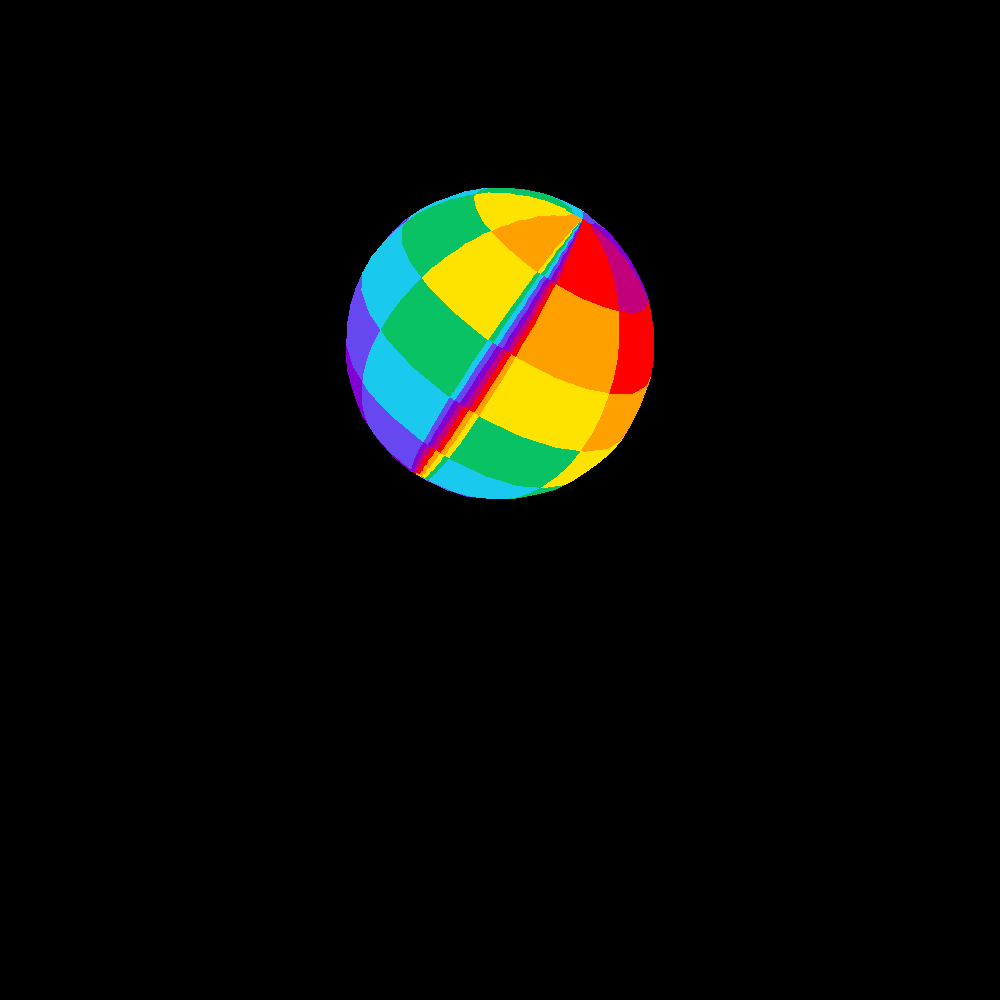
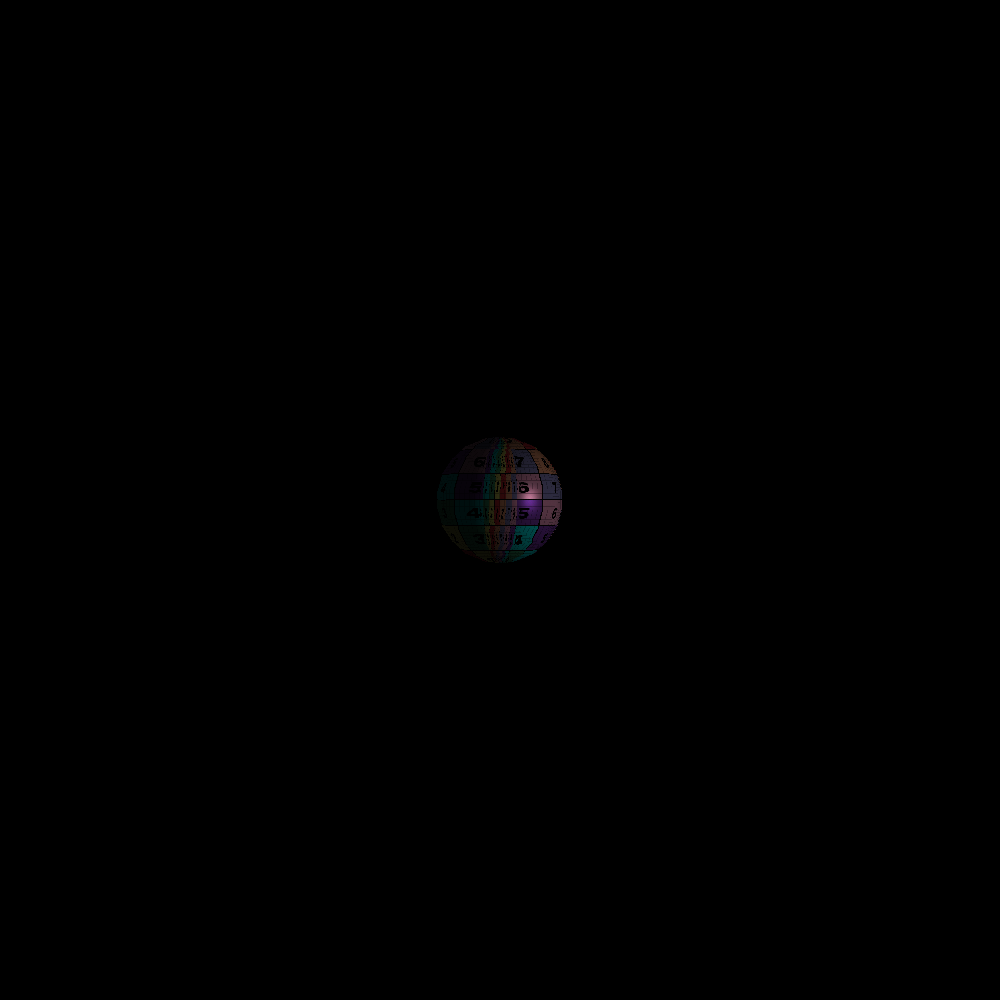
Textures and light

Changed region(s): [[0.341, 0.186, 0.651, 0.558]]

diff --git a/Zad1/DirectionalLight.cpp b/Zad1/DirectionalLight.cpp
@@ -15,70 +15,8 @@ DirectionalLight::DirectionalLight(Vector3 position, Vector3 ambient, Vector3 di
 	this->specularStrenght = specularStrenght;
 }
 
-void DirectionalLight::Calculate(Mesh& mesh)
-{
-	if (!mesh.colors.empty()) mesh.colors.clear();
-	for (int i = 0; i < mesh.vSize; ++i)
-	{
-		//vertices and normals
-		Vector4 normals = mesh.model * Vector4(mesh.normals[i], 0);
-		Vector4 vertices = mesh.model * Vector4(-mesh.vertices[i], 0);
-		Vector3 N = Vector3(normals.x, normals.y, normals.z);
-		Vector3 V = Vector3(vertices.x, vertices.y, vertices.z);
-		V = Vector3::Normalize(V);
-		N = Vector3::Normalize(N);
 
-		//light position
-		Vector4 pos = Vector4(position, 0);
-		Vector3 lightPosition = Vector3(pos.x, pos.y, pos.z);
-		lightPosition = lightPosition.Normalize();
-
-		//difffuse
-		float diffuse = Vector3::Dot(lightPosition, N);
-		if (diffuse < 0) diffuse = 0;
-		Vector3 dif = diffuseColor * diffuse;
-
-		//specular
-		Vector3 R = lightPosition - (N * 2 * (Vector3::Dot(lightPosition, N)));
-		R = Vector3::Normalize(R);
-		float specular = Vector3::Dot(R , V);
-		Vector3 spec;
-
-		if (specular > 0) 
-		{
-			specular = pow(specular, shininess);
-			spec = specularColor * specular * specularStrenght ;
-		}
-
-		mesh.colors.push_back( dif + spec + ambientColor );
-		if (mesh.colors[i].x > 255) mesh.colors[i].x = 255;
-		if (mesh.colors[i].y > 255) mesh.colors[i].y = 255;
-		if (mesh.colors[i].z > 255) mesh.colors[i].z = 255;
-
-	}
-
-	int i = 0;
-	for (auto& t : mesh.triangles)
-	{
-		t.colorV1 += mesh.colors[(int)mesh.indices[i].y];
-		t.colorV2 += mesh.colors[(int)mesh.indices[i].x];
-		t.colorV3 += mesh.colors[(int)mesh.indices[i].z];
-		if (t.colorV1.x > 255) t.colorV1.x = 255;
-		if (t.colorV1.y > 255) t.colorV1.y = 255;
-		if (t.colorV1.z > 255) t.colorV1.z = 255;
-
-		if (t.colorV2.x > 255) t.colorV2.x = 255;
-		if (t.colorV2.y > 255) t.colorV2.y = 255;
-		if (t.colorV2.z > 255) t.colorV2.z = 255;
-
-		if (t.colorV3.x > 255) t.colorV3.x = 255;
-		if (t.colorV3.y > 255) t.colorV3.y = 255;
-		if (t.colorV3.z > 255) t.colorV3.z = 255;
-		i++;
-	}
-}
-
-Vector3 DirectionalLight::Calculate(Vector3 V, Vector3 N)
+Vector3 DirectionalLight::Calculate(Vector3 V, Vector3 N, Vector3 texture)
 {
 	V = Vector3::Normalize(V);
 	N = Vector3::Normalize(N);
@@ -87,7 +25,7 @@ Vector3 DirectionalLight::Calculate(Vector3 V, Vector3 N)
 
 	float diffuse = Vector3::Dot(position, N);
 	if (diffuse < 0) diffuse = 0;
-	Vector3 dif = diffuseColor * diffuse;
+	Vector3 dif = diffuseColor * diffuse * texture * 0.00392f;
 
 	Vector3 R = position - (N * 2 * (Vector3::Dot(position, N)));
 	R = Vector3::Normalize(R);
@@ -96,9 +34,11 @@ Vector3 DirectionalLight::Calculate(Vector3 V, Vector3 N)
 
 	if (specular > 0)
 	{
-		specular = pow(specular, 99);
-		spec = specularColor * specular * 0.9;
+		specular = pow(specular, shininess);
+		spec = specularColor * specular * specularStrenght * texture * 0.00392f;
 	}
 
-	return spec + dif + ambientColor;
+	//ambientColor = texture;
+
+	return spec + dif + ambientColor * texture * 0.00392f;
 }

diff --git a/Zad1/Triangle.cpp b/Zad1/Triangle.cpp
@@ -18,6 +18,7 @@ Triangle::Triangle(Vector3 v1, Vector3 v2, Vector3 v3, Vector3 n1, Vector3 n2, V
 
 void Triangle::SetView(Matrix4 obj2view, Matrix4 camera, Matrix4 m) {
 
+	model = m;
 	Vector4 p1 = obj2view * camera * m * Vector4(v1, 1);
 	Vector4 p2 = obj2view * camera * m * Vector4(v2, 1);
 	Vector4 p3 = obj2view * camera * m * Vector4(v3, 1);
@@ -54,33 +55,19 @@ void Triangle::Draw(int& i, int& j, ColorBuffer& buffer, Texture& texture)
 		L2 = (dy31 * (j - v3.x) + dx13 * (i - v3.y)) / (dy31 * dx23 + dx13 * dy23);
 		L3 = 1 - L2 - L1;
 
-		Vector3 V = -dv1 * L1 + -dv2 * L2 + -dv3 * L3;
+		Vector3 V = dv1 * L1 + dv2 * L2 + dv3 * L3;
 		Vector3 N = n1 * L1 + n2 * L2 + n3 * L3;
 
-		Matrix4 model;
-		model = Matrix4::Translate(model, Vector3(0, -1, 7));
+		//Matrix4 model;
+		//model = Matrix4::Translate(model, Vector3(0, -1, 7));
 
 		Vector4 vertices = model * Vector4(V, 1);
 
 		V = Vector3(vertices.x, vertices.y, vertices.z);
 
-		DirectionalLight pl(Vector3(-0.4f, 0.0, -0.7f), Vector3(50, 0, 0), Vector3(210, 0, 0), Vector3(255, 255, 255));
-		//PointLight pl(Vector3(2, 0, -5), Vector3(0, 15, 0), Vector3(0, 220, 0), Vector3(255, 255, 255));
+		//DirectionalLight pl(Vector3(0.7f, 0.0, 0.2f), Vector3(10, 10, 10), Vector3(70, 70, 70), Vector3(200, 200, 200));
+		PointLight pl(Vector3(6, 0, 3), Vector3(15, 15, 15), Vector3(70, 70, 70), Vector3(255, 255, 255));
 
-		colorV1 = Vector3(0, 0, 0);
-		colorV2 = Vector3(0, 0, 0);
-		colorV3 = Vector3(0, 0, 0);
-
-		colorV1 = pl.Calculate(V, N);
-		colorV2 = pl.Calculate(V, N);
-		colorV3 = pl.Calculate(V, N);
-		//std::cout <<  t1.y << "\n";
-		
-		//colorV1 = texture.GetColor((texture.width - 1) * t1.x, (texture.height - 1) * t1.y);
-		//colorV2 = texture.GetColor((texture.width - 1) * t2.x, (texture.height - 1) * t2.y);
-		//colorV3 = texture.GetColor((texture.width - 1) * t3.x, (texture.height - 1) * t3.y);
-
-		
 
 		float v = t1.x * L1 + t2.x * L2 + t3.x * L3;
 		float u = t1.y * L1 + t2.y * L2 + t3.y * L3;
@@ -88,6 +75,10 @@ void Triangle::Draw(int& i, int& j, ColorBuffer& buffer, Texture& texture)
 		colorV1 = texture.GetColor((texture.width - 1) * v, (texture.height - 1) * u);
 		colorV2 = texture.GetColor((texture.width - 1) * v, (texture.height - 1) * u);
 		colorV3 = texture.GetColor((texture.width - 1) * v, (texture.height - 1) * u);
+		CutColorRange();
+		colorV1 = pl.Calculate(V, N, colorV1);
+		colorV2 = pl.Calculate(V, N, colorV2);
+		colorV3 = pl.Calculate(V, N, colorV3);
 		CutColorRange();
 		//color for each pixel
 		R = L1 * colorV1.x + L2 * colorV2.x + L3 * colorV3.x;

diff --git a/Zad1/RenderingAlghortims.cpp b/Zad1/RenderingAlghortims.cpp
@@ -20,20 +20,21 @@
 int main()
 {
 	ColorBuffer buffer(WIDTH, HEIGHT);
-	Texture texture("texture.png");
+
+	Texture texture("UV.png");
 	//std::cout<<texture.GetColor(10, 10).ToString();
 
-	Sphere sphere(25,25);
+	Sphere sphere(10,10);
 
 	Matrix4 obj2view;
 	obj2view.Perspective(50, 1.f, 0.1f, 100.f);
 
 	Matrix4 camera;
-	camera = camera.LookAt(Vector3(0, 0, 0), Vector3(0, 0, 10), Vector3(0, 1, 0));
+	camera = camera.LookAt(Vector3(0, 0, -10), Vector3(0, 0, 10), Vector3(0, 1, 0));
 
 	Matrix4 modelSphere;
-	modelSphere = modelSphere.Translate(modelSphere, Vector3(0, -1, 7));
-	modelSphere = modelSphere.Rotate(modelSphere, Vector3(1, 0, 1), 45);
+	modelSphere = modelSphere.Translate(modelSphere, Vector3(0, 0, 7));
+	//modelSphere = modelSphere.Rotate(modelSphere, Vector3(0, 1, 0), 170);
 
 	sphere.SetModelMatrix(modelSphere);
 	sphere.SetCamera(camera);
@@ -48,8 +49,6 @@ int main()
 	for (auto& f: figures)
 	{
 		f.SetView();
-		//pl.Calculate(f);
-		//dl.Calculate(f);
 	}
 
 	for (int i = 0; i < HEIGHT; i++)

diff --git a/Zad1/PointLight.cpp b/Zad1/PointLight.cpp
@@ -11,7 +11,7 @@ PointLight::PointLight(Vector3 position, Vector3 ambient, Vector3 diffuse, Vecto
 	this->specularStrenght = specularStrenght;
 }
 
-Vector3 PointLight::Calculate(Vector3 V, Vector3 N)
+Vector3 PointLight::Calculate(Vector3 V, Vector3 N, Vector3 texture)
 {
 		//vertices and normals
 		
@@ -28,7 +28,7 @@ Vector3 PointLight::Calculate(Vector3 V, Vector3 N)
 		//difffuse
 		float diffuse = Vector3::Dot(L, N);
 		if (diffuse < 0) diffuse = 0;
-		Vector3 dif = diffuseColor * diffuse;
+		Vector3 dif = diffuseColor * diffuse * texture * 0.00392f;;
 
 		//specular
 		Vector3 R = L - (N * 2 * (Vector3::Dot(L, N)));
@@ -39,9 +39,9 @@ Vector3 PointLight::Calculate(Vector3 V, Vector3 N)
 		if (specular > 0)
 		{
 			specular = pow(specular, shininess);
-			spec = specularColor * specular * specularStrenght;
+			spec = specularColor * specular * specularStrenght * texture * 0.00392f;;
 		}
 		
-		return dif + spec + ambientColor;
+		return dif + spec + ambientColor * texture * 0.00392f;;
 	
 }

diff --git a/Zad1/DirectionalLight.h b/Zad1/DirectionalLight.h
@@ -3,13 +3,12 @@
 #include "Matrix4.h"
 #include <vector>
 #include "Triangle.h"
-#include "Mesh.h"
+
 class DirectionalLight : public Light
 {
 public:
 	DirectionalLight();
-	DirectionalLight(Vector3 position, Vector3 ambient, Vector3 diffuse, Vector3 specular, int shininess = 8, float specularStrenght = 0.5f);
-	void Calculate(Mesh& mesh);
-	Vector3 Calculate(Vector3 V, Vector3 N);
+	DirectionalLight(Vector3 position, Vector3 ambient, Vector3 diffuse, Vector3 specular, int shininess = 16, float specularStrenght = 0.5f);
+	Vector3 Calculate(Vector3 V, Vector3 N, Vector3 texture);
 };
 

diff --git a/Zad1/Mesh.cpp b/Zad1/Mesh.cpp
@@ -58,9 +58,9 @@ void Mesh::CalculateTexCoords()
 		if (u2 > 1) u2 = 1;
 		if (u3 > 1) u3 = 1;
 
-		texCoords[indices.at(i).y] = Vector3(v1,u1,0);
-		texCoords[indices.at(i).x] = Vector3(v2,u2,0);
-		texCoords[indices.at(i).z] = Vector3(v3,u3,0);
+		texCoords[indices.at(i).y] = Vector3(u1,v1,0);
+		texCoords[indices.at(i).x] = Vector3(u2,v2,0);
+		texCoords[indices.at(i).z] = Vector3(u3,v3,0);
 		//std::cout << u1 << " " << u2 << " " << u2 << "\n";
 	}
 }

diff --git a/Zad1/PointLight.h b/Zad1/PointLight.h
@@ -4,7 +4,7 @@
 class PointLight : public Light
 {
 public:
-	PointLight(Vector3 position, Vector3 ambient, Vector3 diffuse, Vector3 specular, int shininess = 2, float specularStrenght = 0.5f);
-	Vector3 Calculate(Vector3 V, Vector3 N);
+	PointLight(Vector3 position, Vector3 ambient, Vector3 diffuse, Vector3 specular, int shininess = 15, float specularStrenght = 0.5f);
+	Vector3 Calculate(Vector3 V, Vector3 N, Vector3 texture);
 };
 

diff --git a/Zad1/Texture.cpp b/Zad1/Texture.cpp
@@ -3,11 +3,12 @@
 
 Texture::Texture(const char* fileName)
 {
+	//stbi_set_flip_vertically_on_load(true);
 	this->data = stbi_load(fileName, &this->width, &this->height, &this->chanels , 3);
 }
 
 Vector3 Texture::GetColor(int x, int y)
 {
-	int pixel = (y * width + x) * 3;
+	int pixel = (y * width + (height - x)) * 3;
 	return Vector3(data[pixel], data[pixel + 1], data[pixel + 2]);
 }

diff --git a/Zad1/Cylinder.cpp b/Zad1/Cylinder.cpp
@@ -49,6 +49,7 @@ Cylinder::Cylinder(int vert, int horiz, float radius)
 	}
 
 	CalculateNormals();
+	CalculateTexCoords();
 
 	for (int i = 0; i < tSize; i++)
 	{

diff --git a/Zad1/Cone.cpp b/Zad1/Cone.cpp
@@ -46,6 +46,7 @@ Cone::Cone(int vert, float radius)
 	}
 
 	CalculateNormals();
+	CalculateTexCoords();
 
 	for (int i = 0; i < tSize; i++)
 	{
